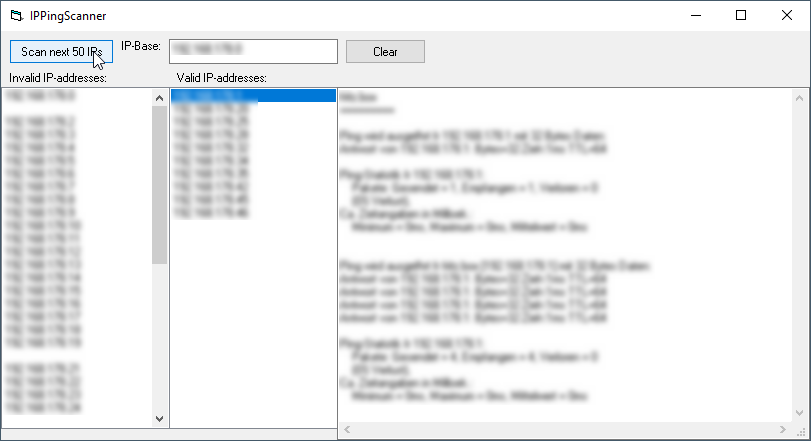
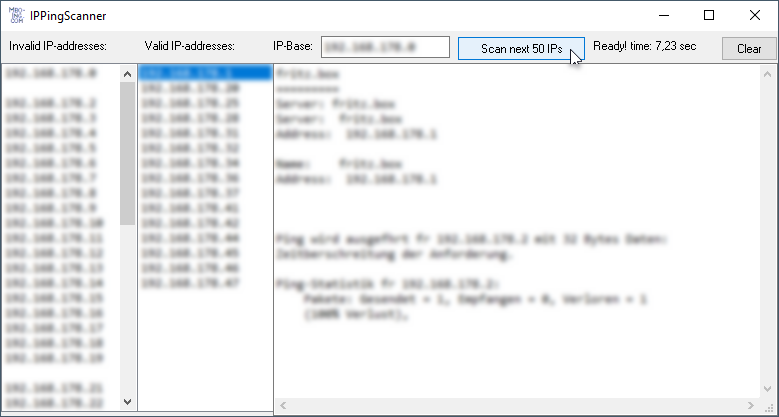
reworked thw whole concept, now nslookup will be used

diff --git a/README.md b/README.md
@@ -1,5 +1,6 @@
-# IPScanner
-## Scans IP addresses in the LAN using Ping  
-Does 50 scans each time, works rather slowly, so be patient with it.  
-
+# IPScanner  
+## Scans IP addresses in the LAN using nslookup and ping  
+Uses nslookup to do an optionally selectable amount of scans each time you click the Scan Button.
+If you doubleclick one IP-address additionally ping will be called.
+Project was started in nov 2019
 ![IPPingScanner Image](Resources/IPPingScanner.png "IPPingScanner Image")
